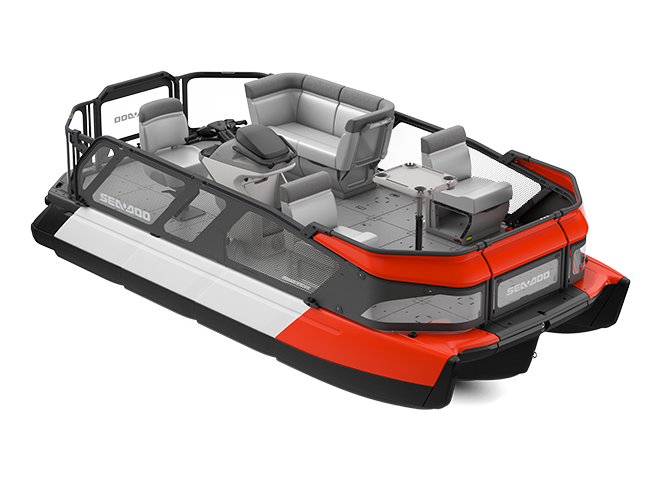
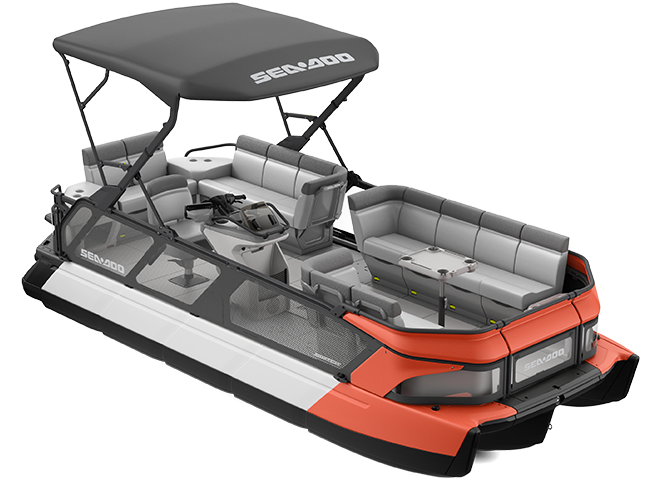
Add July motorized vehicle inventory

diff --git a/app/july2026/data.ts b/app/july2026/data.ts
@@ -199,19 +199,23 @@ export const motorizedVehicles = [
   {
     capacity: "10 persons",
     color: "Red",
-    detail: "Group lake runs, boat parade viewing, and the Saturday LH1-to-LH3 ride after host orientation.",
+    detail: "Primary group pontoon for lake runs, boat parade viewing, and the Saturday LH1-to-LH3 ride after host orientation.",
     image: "laconic",
-    model: "Switch Cruise-style pontoon reference",
+    length: "Host reference: 23 ft",
+    model: "Switch Cruise 21-class pontoon reference",
     name: "Laconic",
-    type: "Sea-Doo Switch pontoon boat"
+    source: "Red / Coral Blast Sea-Doo Switch Cruise 21 studio reference",
+    type: "Sea-Doo Switch Cruise pontoon boat"
   },
   {
     capacity: "3 seats",
     color: "Blue",
     detail: "Personal watercraft for approved lake use after the Saturday safety briefing.",
     image: "spikey-lizard",
+    length: "PWC",
     model: "GTX-style PWC reference",
     name: "Spikey Lizard",
+    source: "Blue Sea-Doo GTX studio reference",
     type: "Sea-Doo PWC"
   },
   {
@@ -219,9 +223,11 @@ export const motorizedVehicles = [
     color: "Red",
     detail: "Compact Trixx-style PWC for host-approved lake use after orientation.",
     image: "laika",
-    model: "Spark Trixx-style PWC reference",
+    length: "PWC",
+    model: "Spark Trixx 2up-style PWC reference",
     name: "Laika",
-    type: "Sea-Doo Trixx"
+    source: "Red Sea-Doo Spark Trixx 2up studio reference",
+    type: "Sea-Doo Spark Trixx"
   }
 ];
 

diff --git a/app/july2026/admin/July2026Admin.tsx b/app/july2026/admin/July2026Admin.tsx
@@ -431,7 +431,7 @@ export function July2026Admin() {
           </div>
         </section>
 
-        <section className={styles.vehicleInventorySection} aria-label="Motorized vehicle inventory">
+        <section className={styles.vehicleInventorySection} id="fleet-inventory" aria-label="Motorized vehicle inventory">
           <div className={styles.proofHeader}>
             <div>
               <span className={styles.label}>Inventory</span>
@@ -467,8 +467,16 @@ export function July2026Admin() {
                         <dd>{vehicle.color}</dd>
                       </div>
                       <div>
+                        <dt>Class</dt>
+                        <dd>{vehicle.length}</dd>
+                      </div>
+                      <div>
                         <dt>Capacity</dt>
                         <dd>{vehicle.capacity}</dd>
+                      </div>
+                      <div>
+                        <dt>Image source</dt>
+                        <dd>{vehicle.source}</dd>
                       </div>
                     </dl>
                     <p>{vehicle.detail}</p>

diff --git a/app/july2026/July2026App.tsx b/app/july2026/July2026App.tsx
@@ -608,7 +608,7 @@ export function July2026App({ selectedGuestSlug }: July2026AppProps) {
             </div>
           </article>
 
-          <article className={styles.panel}>
+          <article className={styles.panel} id="fleet">
             <div className={styles.panelHeader}>
               <Icon path="M4 15h16l-2.1-5.4A3 3 0 0 0 15.1 7H8.9a3 3 0 0 0-2.8 2.6L4 15Zm3-6h10l1.2 4H5.8L7 9Zm-.5 8a2.5 2.5 0 1 0 0 5 2.5 2.5 0 0 0 0-5Zm11 0a2.5 2.5 0 1 0 0 5 2.5 2.5 0 0 0 0-5Z" />
               <h2>Motorized Fleet</h2>
@@ -630,7 +630,7 @@ export function July2026App({ selectedGuestSlug }: July2026AppProps) {
                       <p>{vehicle.type}</p>
                       <dl className={styles.vehicleMeta}>
                         <div>
-                          <dt>Model</dt>
+                          <dt>Reference</dt>
                           <dd>{vehicle.model}</dd>
                         </div>
                         <div>
@@ -638,10 +638,15 @@ export function July2026App({ selectedGuestSlug }: July2026AppProps) {
                           <dd>{vehicle.color}</dd>
                         </div>
                         <div>
+                          <dt>Class</dt>
+                          <dd>{vehicle.length}</dd>
+                        </div>
+                        <div>
                           <dt>Capacity</dt>
                           <dd>{vehicle.capacity}</dd>
                         </div>
                       </dl>
+                      <p>{vehicle.detail}</p>
                     </div>
                   </section>
                 );

diff --git a/app/july2026/admin/admin.module.css b/app/july2026/admin/admin.module.css
@@ -368,7 +368,8 @@
   margin: 13px 0 0;
 }
 
-.vehicleInventoryGrid dl div:first-child {
+.vehicleInventoryGrid dl div:first-child,
+.vehicleInventoryGrid dl div:last-child {
   grid-column: 1 / -1;
 }
 

diff --git a/app/july2026/admin/referenceMaterial.ts b/app/july2026/admin/referenceMaterial.ts
@@ -1,1 +1,1 @@
-export const referenceMaterial = "# Lake Weekend Guest Website Reference Document\n\n## 1. Project Overview\n\nCreate a polished, playful, luxury-resort-inspired guest website for a private lake weekend from Friday, July 3 through Sunday, July 5, 2026.\n\nThe site should feel like a boutique resort experience, but still be practical and clear. Guests should be able to see their personalized lodging details, weekend schedule, house information, maps, activity options, and host contact information.\n\nThe theme should lean into the idea that the three lake houses are part of a fictional “resort” experience.\n\n## 2. Core Website Goals\n\nThe website should help guests quickly answer:\n\n- Where am I staying?\n- What room am I assigned to?\n- What is the weekend schedule?\n- Where are the lake houses?\n- What activities are available?\n- Where do I go for each event?\n- Who do I contact if I need help?\n\nThe site should also create a fun “check-in” experience where each guest opens a personalized link and sees their own room assignment and itinerary.\n\n## 3. Personalization and Guest Links\n\nEach guest should receive a unique link or token.\n\nWhen a guest opens their link, the site identifies them and displays their personalized view by default.\n\nThe personalized view should include:\n\n- Guest name\n- Assigned lake house\n- Assigned room\n- Arrival/check-in information\n- Departure/check-out information\n- Relevant schedule details\n- Host contact/help button\n- Ability to view other guest assignments if desired\n\n### Identity Binding Behavior\n\nCurrent implementation: the first guest link opened on a device binds that guest identity through the `/api/july2026/guest-bindings` service and also stores the active identity locally in the browser.\n\nIf a different guest link is opened later on the same device, it does not overwrite the original device/session binding. The page shows the viewed guest details while making clear that the device remains checked in as the originally bound guest.\n\nThe backend guest-link store records each guest slug, token, current binding state, and reset/regeneration timestamps.\n\nThe admin page includes a local reset control for the current device plus persistent regenerate/reset controls for each guest link.\n\n### Admin Page\n\nThe admin page should show:\n\n- List of all guests\n- Each guest’s assigned house and room\n- Whether the current browser has a completed first-device binding\n- Persistent guest-link service status\n- Ability to generate or regenerate a guest link with a fresh token-style query string\n- Ability to reset a guest binding if needed\n- Readiness tracker for live, partial, and still-needed launch content\n\n## 4. Houses\n\nEach house should have a dedicated profile page or section with:\n\n- House name\n- Address\n- Google Maps link\n- Photos\n- Key gathering spaces\n- Any relevant notes or amenities\n\n### LH1\n\nAddress: TBD\n\nGoogle Maps link: pending until address is confirmed.\n\nKnown spaces/events:\n\n- Sunroom\n- Great Room 1\n- Grand Peninsula\n- South Grand Peninsula fire pit\n- Dock/boat departure point\n\nPhotos needed:\n\n- Exterior of LH1: provided as LH1 aerial photo\n- Sunroom\n- Great Room 1\n- Grand Peninsula\n- South Grand Peninsula fire pit\n- Relevant bedrooms\n\n### LH2\n\nAddress: 63 Pine Eden Road, Rindge, New Hampshire\n\nGoogle Maps link: `https://www.google.com/maps/search/?api=1&query=63%20Pine%20Eden%20Road%2C%20Rindge%2C%20NH`\n\nKnown spaces:\n\n- South bedroom\n- North bedroom\n\nPhotos needed:\n\n- Exterior of LH2\n- South bedroom\n- North bedroom\n- Any common spaces\n\n### LH3\n\nAddress: 25 Sunny Cove Road, Winchendon, Massachusetts\n\nGoogle Maps link: `https://www.google.com/maps/search/?api=1&query=25%20Sunny%20Cove%20Road%2C%20Winchendon%2C%20MA`\n\nKnown spaces/events:\n\n- Beach\n- Lunch/dinner/brunch gathering location\n- Primary bedroom\n- Boat return point\n\nPhotos needed:\n\n- Exterior of LH3\n- Beach\n- Primary bedroom\n- Dining/gathering area\n- Smoothie/lunch/dinner/brunch area\n\n## 5. Guest and Room Assignments\n\n### LH1\n\n| Guest(s) | Room |\n|---|---|\n| Heather and Eric | Second floor bedroom |\n| Morgan, Rowan, Emma, and Austin | Third floor bedroom, labeled “The Girls’ Room” |\n| Jack | Sunroom |\n\n### LH2\n\n| Guest(s) | Room |\n|---|---|\n| Cin and Vin | South bedroom |\n| Adam and Gage | North bedroom |\n\n### LH3\n\n| Guest(s) | Room |\n|---|---|\n| Holly and Todd | Primary bedroom |\n\n### Total Guests\n\n15 guests:\n\n- Holly\n- Todd\n- Heather\n- Eric\n- Zach\n- Bee\n- Cin\n- Vin\n- Adam\n- Gage\n- Morgan\n- Rowan\n- Emma\n- Austin\n- Jack\n\n### Personalized Guest Links\n\nEach guest has a persistent room-key URL. The admin page generates token-style URLs by appending `?t=...`.\n\n| Guest | URL | Current assignment |\n|---|---|---|\n| Holly | `/july2026/guest/holly` | LH3 / Primary bedroom |\n| Todd | `/july2026/guest/todd` | LH3 / Primary bedroom |\n| Heather | `/july2026/guest/heather` | LH1 / Second floor bedroom |\n| Eric | `/july2026/guest/eric` | LH1 / Second floor bedroom |\n| Zach | `/july2026/guest/zach` | Assignment pending |\n| Bee | `/july2026/guest/bee` | Assignment pending |\n| Cin | `/july2026/guest/cin` | LH2 / South bedroom |\n| Vin | `/july2026/guest/vin` | LH2 / South bedroom |\n| Adam | `/july2026/guest/adam` | LH2 / North bedroom |\n| Gage | `/july2026/guest/gage` | LH2 / North bedroom |\n| Morgan | `/july2026/guest/morgan` | LH1 / The Girls' Room |\n| Rowan | `/july2026/guest/rowan` | LH1 / The Girls' Room |\n| Emma | `/july2026/guest/emma` | LH1 / The Girls' Room |\n| Austin | `/july2026/guest/austin` | LH1 / The Girls' Room |\n| Jack | `/july2026/guest/jack` | LH1 / Sunroom |\n\nOpening one of these links on a device records the first guest identity. Opening a different guest link afterward does not replace that stored check-in unless the local device binding is reset. If a tokenized link is already bound to another device or the token no longer matches, the guest page tells the guest to text the host for a fresh link.\n\nBase guest-directory URLs without `?t=...` are browsable but should not claim the persistent backend room-key binding. Persistent first-device binding is for tokenized links generated from admin.\n\nIf a guest has an assignment pending, the guest page should show a host-confirmation notice instead of presenting “Pending” as a finished room assignment. The guest should be prompted to text the host for the current lodging details.\n\n## 6. Weekend Schedule\n\n## Friday, July 3, 2026\n\n### 3:00 p.m. to 6:00 p.m.  \nGuest Check-In Window\n\nGuests arrive and settle into their assigned lake house and room.\n\n### 6:30 p.m.  \nCasual Grab-and-Go Meal\n\nLocation: Sunroom, LH1\n\nA casual, flexible meal after check-in.\n\n### 7:00 p.m. to 8:00 p.m.  \nWeekend Orientation\n\nLocation: Great Room 1, LH1\n\nOverview of the weekend, key locations, schedule, activities, and safety/logistics.\n\n### 8:00 p.m.  \nCampfire, Cigars, and Scotch\n\nLocation: Grand Peninsula, LH1\n\nRelaxed evening gathering with fire, cigars, and scotch for those who partake.\n\n## Saturday, July 4, 2026\n\n### 7:30 a.m. to 8:00 a.m.  \nCoffee Time at All Houses\n\nEach house has its own coffee experience:\n\n- LH1: Kona coffee\n- LH2: K-cup coffee\n- LH3: Drip coffee\n\nGuests may visit any house for coffee.\n\n### 8:00 a.m.  \nYoga on the Beach\n\nLocation: Beach, LH3\n\nMorning yoga by the lake.\n\n### 9:00 a.m.  \nNon-Motorized Lake Activities\n\nLocation: LH3 / Lake access\n\nActivities include:\n\n- Kayaks\n- Canoes\n- Rowboats\n- Swimming\n\n### 10:00 a.m.  \nFruit Smoothies\n\nLocation: LH3\n\nRefreshing smoothies after morning lake activities.\n\n### 11:00 a.m.  \nMotorized Lake Vehicle Orientation\n\nLocation: LH1\n\nSafety briefing and orientation for motorized lake vehicles, including boats or similar lake equipment.\n\n### 11:30 a.m. to 12:30 p.m.  \nBoat Ride\n\nDeparture: LH1  \nReturn: LH3\n\nGroup boat ride across the lake.\n\n### 12:30 p.m.  \nLunch\n\nLocation: LH3\n\nLunch begins immediately after the boat ride returns.\n\n### 2:00 p.m. to 6:00 p.m.  \nFree Time and Optional Activities\n\nGuests may choose from:\n\n- Hiking at Famous Land\n- Famous Land quests\n- Motorized boating\n- Non-motorized boating\n- Beach and lounging activities\n- Quad/four-wheeler by request or reservation\n- Napping or downtime\n\n### 2:00 p.m.  \nFourth of July Boat Parade\n\nGuests may see the boat parade during afternoon free time.\n\nExpected viewing note: The parade may pass by LH3 around 3:00 p.m.\n\n### 6:00 p.m.  \nDinner\n\nLocation: LH3\n\nLakeside patio seating.\n\n### 8:00 p.m.  \nS’mores at the Fire Pit\n\nLocation: South Grand Peninsula, LH1\n\nEvening fire pit gathering with s’mores.\n\n### 8:30 p.m.  \nSparklers and Snacks\n\nLocation: South Grand Peninsula / LH1 area unless otherwise specified\n\nEvening snacks and sparklers after s’mores.\n\n### 9:00 p.m.  \nOptional Fireworks Viewing\n\nViewing options:\n\n- Grand Peninsula at LH1\n- Beach at LH3\n- Chartered cruise experience on the lake\n\n## Sunday, July 5, 2026\n\n### 8:30 a.m.  \nCoffee Time at All Houses\n\nSame coffee setup as Saturday:\n\n- LH1: Kona coffee\n- LH2: K-cup coffee\n- LH3: Drip coffee\n\n### 10:00 a.m.  \nPancake Brunch\n\nLocation: LH3\n\nRelaxed Sunday brunch.\n\n### After Brunch  \nFree Time and Lake Activities\n\nGuests may continue enjoying the lake, lounging, hiking, boating, or relaxing.\n\n### Sunday Afternoon  \nDeparture and Grab-and-Go Food\n\nGrab-and-go food available for guests as they depart.\n\n## 7. Activity List\n\nThe guest page includes a dedicated Activities section with scan-friendly cards for:\n\n- Beach and swimming at LH3\n- Kayaks, canoes, and rowboats from LH3 / lake access\n- Motorized lake fleet after the LH1 orientation\n- Famous Land quests and hiking during free time\n- Campfire, s’mores, sparklers, and fireworks viewing from LH1 / LH3\n\nActivity approval rules:\n\n- Motorized lake fleet use requires the Saturday LH1 orientation and host approval.\n- Optional fireworks cruise plans are by host approval.\n- Quad/four-wheeler use is by host approval.\n- Dietary notes, allergies, or restrictions should be texted to the host at [phone redacted].\n\n## 8. Food and Drinks\n\nThe guest page includes a dedicated Food and Drinks section with:\n\n- Friday grab-and-go welcome meal in the LH1 sunroom\n- Saturday coffee at all houses\n- Saturday fruit smoothies at LH3\n- Saturday lunch at LH3\n- Saturday dinner at LH3 with lakeside patio seating\n- Sunday pancake brunch at LH3\n\n## 9. Motorized Vehicle Inventory\n\n| Name | Vehicle | Color | Capacity | Reference image |\n|---|---|---|---|---|\n| Laconic | Sea-Doo Switch pontoon boat | Red | 10 persons | Red Sea-Doo Switch Cruise-style pontoon |\n| Spikey Lizard | Sea-Doo PWC | Blue | 3 seats | Blue Sea-Doo GTX-style PWC |\n| Laika | Sea-Doo Trixx | Red | 2 seats | Red Sea-Doo Spark Trixx-style PWC |\n\nInventory notes:\n\n- The website stores the vehicle reference images inside the July 2026 asset folder.\n- The three inventory cards should look visually similar, using clean studio-style watercraft references.\n- All motorized vehicle use is part of the host-approved activity flow.\n\n## 10. Guest Experience Requirements\n\nThe site should feel like a fun resort portal.\n\nSuggested sections:\n\n- Welcome / Check-In\n- My Stay\n- My Room\n- Weekend Itinerary\n- Houses\n- Activities\n- Motorized Fleet\n- Food and Drinks\n- Maps and Directions with known LH2 and LH3 address links\n- Help / Contact Host\n- View Other Guests\n- Admin\n\nAdmin operating sections:\n\n- Planning summary\n- Reference checkpoints\n- Launch readiness tracker\n- Asset and content checklist showing live bundled media and missing host-supplied content\n- Motorized vehicle inventory\n- Personalized room-key URLs\n- Embedded reference material with Proof edit link\n\n## 11. Design Direction\n\nStyle should feel:\n\n- Polished\n- Playful\n- Premium\n- Lake resort inspired\n- Family-friendly\n- Clear and easy to use on mobile\n\nPossible design language:\n\n- “Welcome to the Lake Weekend Resort”\n- “Your stay”\n- “Your itinerary”\n- “Resort map”\n- “Guest check-in”\n- “House profiles”\n- “Lake activities”\n- “Fourth of July experiences”\n\nAvoid making the site feel too corporate or too silly. It should be fun but still useful.\n\n## 12. Content and Asset Needs\n\nImages still needed:\n\n- LH1 exterior: provided as LH1 aerial photo\n- LH1 sunroom\n- LH1 Great Room 1\n- LH1 Grand Peninsula\n- LH1 South Grand Peninsula fire pit\n- LH1 bedrooms\n- LH2 exterior\n- LH2 bedrooms\n- LH3 exterior: provided as LH3 exterior patio photo\n- LH3 beach\n- LH3 primary bedroom\n- LH3 dining/gathering areas\n- Any room photos for personalized room pages\n\nCurrent bundled media:\n\n- Generated July 4th lake weekend hero artwork\n- LH1 aerial exterior photo\n- LH2 exterior front photo\n- LH2 exterior side photo\n- LH2 kitchen photo\n- LH2 living room photo\n- LH3 exterior patio photo\n- LH3 animated profile video\n- Motorized vehicle reference images for Laconic, Spikey Lizard, and Laika\n\nMissing information:\n\n- LH1 address\n- Zach room assignment\n- Bee room assignment\n- Exact departure/check-out time, if needed\n";
+export const referenceMaterial = "# Lake Weekend Guest Website Reference Document\n\n## 1. Project Overview\n\nCreate a polished, playful, luxury-resort-inspired guest website for a private lake weekend from Friday, July 3 through Sunday, July 5, 2026.\n\nThe site should feel like a boutique resort experience, but still be practical and clear. Guests should be able to see their personalized lodging details, weekend schedule, house information, maps, activity options, and host contact information.\n\nThe theme should lean into the idea that the three lake houses are part of a fictional “resort” experience.\n\n## 2. Core Website Goals\n\nThe website should help guests quickly answer:\n\n- Where am I staying?\n- What room am I assigned to?\n- What is the weekend schedule?\n- Where are the lake houses?\n- What activities are available?\n- Where do I go for each event?\n- Who do I contact if I need help?\n\nThe site should also create a fun “check-in” experience where each guest opens a personalized link and sees their own room assignment and itinerary.\n\n## 3. Personalization and Guest Links\n\nEach guest should receive a unique link or token.\n\nWhen a guest opens their link, the site identifies them and displays their personalized view by default.\n\nThe personalized view should include:\n\n- Guest name\n- Assigned lake house\n- Assigned room\n- Arrival/check-in information\n- Departure/check-out information\n- Relevant schedule details\n- Host contact/help button\n- Ability to view other guest assignments if desired\n\n### Identity Binding Behavior\n\nCurrent implementation: the first guest link opened on a device binds that guest identity through the `/api/july2026/guest-bindings` service and also stores the active identity locally in the browser.\n\nIf a different guest link is opened later on the same device, it does not overwrite the original device/session binding. The page shows the viewed guest details while making clear that the device remains checked in as the originally bound guest.\n\nThe backend guest-link store records each guest slug, token, current binding state, and reset/regeneration timestamps.\n\nThe admin page includes a local reset control for the current device plus persistent regenerate/reset controls for each guest link.\n\n### Admin Page\n\nThe admin page should show:\n\n- List of all guests\n- Each guest’s assigned house and room\n- Whether the current browser has a completed first-device binding\n- Persistent guest-link service status\n- Ability to generate or regenerate a guest link with a fresh token-style query string\n- Ability to reset a guest binding if needed\n- Readiness tracker for live, partial, and still-needed launch content\n\n## 4. Houses\n\nEach house should have a dedicated profile page or section with:\n\n- House name\n- Address\n- Google Maps link\n- Photos\n- Key gathering spaces\n- Any relevant notes or amenities\n\n### LH1\n\nAddress: TBD\n\nGoogle Maps link: pending until address is confirmed.\n\nKnown spaces/events:\n\n- Sunroom\n- Great Room 1\n- Grand Peninsula\n- South Grand Peninsula fire pit\n- Dock/boat departure point\n\nPhotos needed:\n\n- Exterior of LH1: provided as LH1 aerial photo\n- Sunroom\n- Great Room 1\n- Grand Peninsula\n- South Grand Peninsula fire pit\n- Relevant bedrooms\n\n### LH2\n\nAddress: 63 Pine Eden Road, Rindge, New Hampshire\n\nGoogle Maps link: `https://www.google.com/maps/search/?api=1&query=63%20Pine%20Eden%20Road%2C%20Rindge%2C%20NH`\n\nKnown spaces:\n\n- South bedroom\n- North bedroom\n\nPhotos needed:\n\n- Exterior of LH2\n- South bedroom\n- North bedroom\n- Any common spaces\n\n### LH3\n\nAddress: 25 Sunny Cove Road, Winchendon, Massachusetts\n\nGoogle Maps link: `https://www.google.com/maps/search/?api=1&query=25%20Sunny%20Cove%20Road%2C%20Winchendon%2C%20MA`\n\nKnown spaces/events:\n\n- Beach\n- Lunch/dinner/brunch gathering location\n- Primary bedroom\n- Boat return point\n\nPhotos needed:\n\n- Exterior of LH3\n- Beach\n- Primary bedroom\n- Dining/gathering area\n- Smoothie/lunch/dinner/brunch area\n\n## 5. Guest and Room Assignments\n\n### LH1\n\n| Guest(s) | Room |\n|---|---|\n| Heather and Eric | Second floor bedroom |\n| Morgan, Rowan, Emma, and Austin | Third floor bedroom, labeled “The Girls’ Room” |\n| Jack | Sunroom |\n\n### LH2\n\n| Guest(s) | Room |\n|---|---|\n| Cin and Vin | South bedroom |\n| Adam and Gage | North bedroom |\n\n### LH3\n\n| Guest(s) | Room |\n|---|---|\n| Holly and Todd | Primary bedroom |\n\n### Total Guests\n\n15 guests:\n\n- Holly\n- Todd\n- Heather\n- Eric\n- Zach\n- Bee\n- Cin\n- Vin\n- Adam\n- Gage\n- Morgan\n- Rowan\n- Emma\n- Austin\n- Jack\n\n### Personalized Guest Links\n\nEach guest has a persistent room-key URL. The admin page generates token-style URLs by appending `?t=...`.\n\n| Guest | URL | Current assignment |\n|---|---|---|\n| Holly | `/july2026/guest/holly` | LH3 / Primary bedroom |\n| Todd | `/july2026/guest/todd` | LH3 / Primary bedroom |\n| Heather | `/july2026/guest/heather` | LH1 / Second floor bedroom |\n| Eric | `/july2026/guest/eric` | LH1 / Second floor bedroom |\n| Zach | `/july2026/guest/zach` | Assignment pending |\n| Bee | `/july2026/guest/bee` | Assignment pending |\n| Cin | `/july2026/guest/cin` | LH2 / South bedroom |\n| Vin | `/july2026/guest/vin` | LH2 / South bedroom |\n| Adam | `/july2026/guest/adam` | LH2 / North bedroom |\n| Gage | `/july2026/guest/gage` | LH2 / North bedroom |\n| Morgan | `/july2026/guest/morgan` | LH1 / The Girls' Room |\n| Rowan | `/july2026/guest/rowan` | LH1 / The Girls' Room |\n| Emma | `/july2026/guest/emma` | LH1 / The Girls' Room |\n| Austin | `/july2026/guest/austin` | LH1 / The Girls' Room |\n| Jack | `/july2026/guest/jack` | LH1 / Sunroom |\n\nOpening one of these links on a device records the first guest identity. Opening a different guest link afterward does not replace that stored check-in unless the local device binding is reset. If a tokenized link is already bound to another device or the token no longer matches, the guest page tells the guest to text the host for a fresh link.\n\nBase guest-directory URLs without `?t=...` are browsable but should not claim the persistent backend room-key binding. Persistent first-device binding is for tokenized links generated from admin.\n\nIf a guest has an assignment pending, the guest page should show a host-confirmation notice instead of presenting “Pending” as a finished room assignment. The guest should be prompted to text the host for the current lodging details.\n\n## 6. Weekend Schedule\n\n## Friday, July 3, 2026\n\n### 3:00 p.m. to 6:00 p.m.  \nGuest Check-In Window\n\nGuests arrive and settle into their assigned lake house and room.\n\n### 6:30 p.m.  \nCasual Grab-and-Go Meal\n\nLocation: Sunroom, LH1\n\nA casual, flexible meal after check-in.\n\n### 7:00 p.m. to 8:00 p.m.  \nWeekend Orientation\n\nLocation: Great Room 1, LH1\n\nOverview of the weekend, key locations, schedule, activities, and safety/logistics.\n\n### 8:00 p.m.  \nCampfire, Cigars, and Scotch\n\nLocation: Grand Peninsula, LH1\n\nRelaxed evening gathering with fire, cigars, and scotch for those who partake.\n\n## Saturday, July 4, 2026\n\n### 7:30 a.m. to 8:00 a.m.  \nCoffee Time at All Houses\n\nEach house has its own coffee experience:\n\n- LH1: Kona coffee\n- LH2: K-cup coffee\n- LH3: Drip coffee\n\nGuests may visit any house for coffee.\n\n### 8:00 a.m.  \nYoga on the Beach\n\nLocation: Beach, LH3\n\nMorning yoga by the lake.\n\n### 9:00 a.m.  \nNon-Motorized Lake Activities\n\nLocation: LH3 / Lake access\n\nActivities include:\n\n- Kayaks\n- Canoes\n- Rowboats\n- Swimming\n\n### 10:00 a.m.  \nFruit Smoothies\n\nLocation: LH3\n\nRefreshing smoothies after morning lake activities.\n\n### 11:00 a.m.  \nMotorized Lake Vehicle Orientation\n\nLocation: LH1\n\nSafety briefing and orientation for motorized lake vehicles, including boats or similar lake equipment.\n\n### 11:30 a.m. to 12:30 p.m.  \nBoat Ride\n\nDeparture: LH1  \nReturn: LH3\n\nGroup boat ride across the lake.\n\n### 12:30 p.m.  \nLunch\n\nLocation: LH3\n\nLunch begins immediately after the boat ride returns.\n\n### 2:00 p.m. to 6:00 p.m.  \nFree Time and Optional Activities\n\nGuests may choose from:\n\n- Hiking at Famous Land\n- Famous Land quests\n- Motorized boating\n- Non-motorized boating\n- Beach and lounging activities\n- Quad/four-wheeler by request or reservation\n- Napping or downtime\n\n### 2:00 p.m.  \nFourth of July Boat Parade\n\nGuests may see the boat parade during afternoon free time.\n\nExpected viewing note: The parade may pass by LH3 around 3:00 p.m.\n\n### 6:00 p.m.  \nDinner\n\nLocation: LH3\n\nLakeside patio seating.\n\n### 8:00 p.m.  \nS’mores at the Fire Pit\n\nLocation: South Grand Peninsula, LH1\n\nEvening fire pit gathering with s’mores.\n\n### 8:30 p.m.  \nSparklers and Snacks\n\nLocation: South Grand Peninsula / LH1 area unless otherwise specified\n\nEvening snacks and sparklers after s’mores.\n\n### 9:00 p.m.  \nOptional Fireworks Viewing\n\nViewing options:\n\n- Grand Peninsula at LH1\n- Beach at LH3\n- Chartered cruise experience on the lake\n\n## Sunday, July 5, 2026\n\n### 8:30 a.m.  \nCoffee Time at All Houses\n\nSame coffee setup as Saturday:\n\n- LH1: Kona coffee\n- LH2: K-cup coffee\n- LH3: Drip coffee\n\n### 10:00 a.m.  \nPancake Brunch\n\nLocation: LH3\n\nRelaxed Sunday brunch.\n\n### After Brunch  \nFree Time and Lake Activities\n\nGuests may continue enjoying the lake, lounging, hiking, boating, or relaxing.\n\n### Sunday Afternoon  \nDeparture and Grab-and-Go Food\n\nGrab-and-go food available for guests as they depart.\n\n## 7. Activity List\n\nThe guest page includes a dedicated Activities section with scan-friendly cards for:\n\n- Beach and swimming at LH3\n- Kayaks, canoes, and rowboats from LH3 / lake access\n- Motorized lake fleet after the LH1 orientation\n- Famous Land quests and hiking during free time\n- Campfire, s’mores, sparklers, and fireworks viewing from LH1 / LH3\n\nActivity approval rules:\n\n- Motorized lake fleet use requires the Saturday LH1 orientation and host approval.\n- Optional fireworks cruise plans are by host approval.\n- Quad/four-wheeler use is by host approval.\n- Dietary notes, allergies, or restrictions should be texted to the host at [phone redacted].\n\n## 8. Food and Drinks\n\nThe guest page includes a dedicated Food and Drinks section with:\n\n- Friday grab-and-go welcome meal in the LH1 sunroom\n- Saturday coffee at all houses\n- Saturday fruit smoothies at LH3\n- Saturday lunch at LH3\n- Saturday dinner at LH3 with lakeside patio seating\n- Sunday pancake brunch at LH3\n\n## 9. Motorized Vehicle Inventory\n\n| Name | Vehicle | Color | Capacity | Reference image | Operating note |\n|---|---|---|---|---|---|\n| Laconic | Sea-Doo Switch Cruise pontoon boat | Red | 10 persons | Red / Coral Blast Sea-Doo Switch Cruise 21-class studio reference; host reference says 23 ft | Primary group pontoon for lake runs, boat parade viewing, and the Saturday LH1-to-LH3 ride after host orientation. |\n| Spikey Lizard | Sea-Doo PWC | Blue | 3 seats | Blue Sea-Doo GTX studio reference | Personal watercraft for approved lake use after the Saturday safety briefing. |\n| Laika | Sea-Doo Spark Trixx | Red | 2 seats | Red Sea-Doo Spark Trixx 2up studio reference | Compact Trixx-style PWC for host-approved lake use after orientation. |\n\nInventory notes:\n\n- The website stores the vehicle reference images inside the July 2026 asset folder.\n- The three inventory cards should look visually similar, using clean studio-style Sea-Doo watercraft references.\n- All motorized vehicle use is part of the host-approved activity flow.\n\n## 10. Guest Experience Requirements\n\nThe site should feel like a fun resort portal.\n\nSuggested sections:\n\n- Welcome / Check-In\n- My Stay\n- My Room\n- Weekend Itinerary\n- Houses\n- Activities\n- Motorized Fleet\n- Food and Drinks\n- Maps and Directions with known LH2 and LH3 address links\n- Help / Contact Host\n- View Other Guests\n- Admin\n\nAdmin operating sections:\n\n- Planning summary\n- Reference checkpoints\n- Launch readiness tracker\n- Asset and content checklist showing live bundled media and missing host-supplied content\n- Motorized vehicle inventory\n- Personalized room-key URLs\n- Embedded reference material with Proof edit link\n\n## 11. Design Direction\n\nStyle should feel:\n\n- Polished\n- Playful\n- Premium\n- Lake resort inspired\n- Family-friendly\n- Clear and easy to use on mobile\n\nPossible design language:\n\n- “Welcome to the Lake Weekend Resort”\n- “Your stay”\n- “Your itinerary”\n- “Resort map”\n- “Guest check-in”\n- “House profiles”\n- “Lake activities”\n- “Fourth of July experiences”\n\nAvoid making the site feel too corporate or too silly. It should be fun but still useful.\n\n## 12. Content and Asset Needs\n\nImages still needed:\n\n- LH1 exterior: provided as LH1 aerial photo\n- LH1 sunroom\n- LH1 Great Room 1\n- LH1 Grand Peninsula\n- LH1 South Grand Peninsula fire pit\n- LH1 bedrooms\n- LH2 exterior\n- LH2 bedrooms\n- LH3 exterior: provided as LH3 exterior patio photo\n- LH3 beach\n- LH3 primary bedroom\n- LH3 dining/gathering areas\n- Any room photos for personalized room pages\n\nCurrent bundled media:\n\n- Generated July 4th lake weekend hero artwork\n- LH1 aerial exterior photo\n- LH2 exterior front photo\n- LH2 exterior side photo\n- LH2 kitchen photo\n- LH2 living room photo\n- LH3 exterior patio photo\n- LH3 animated profile video\n- Motorized vehicle reference images for Laconic, Spikey Lizard, and Laika\n\nMissing information:\n\n- LH1 address\n- Zach room assignment\n- Bee room assignment\n- Exact departure/check-out time, if needed\n";